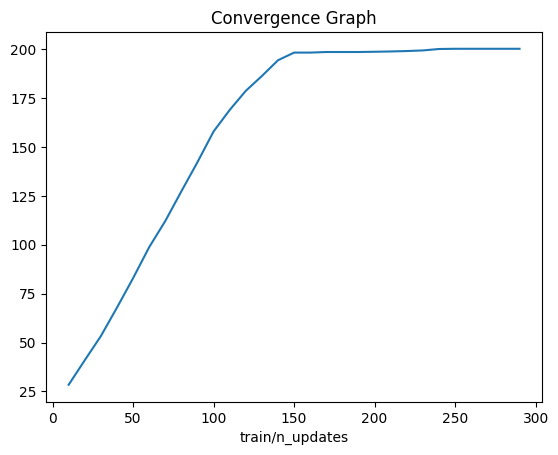
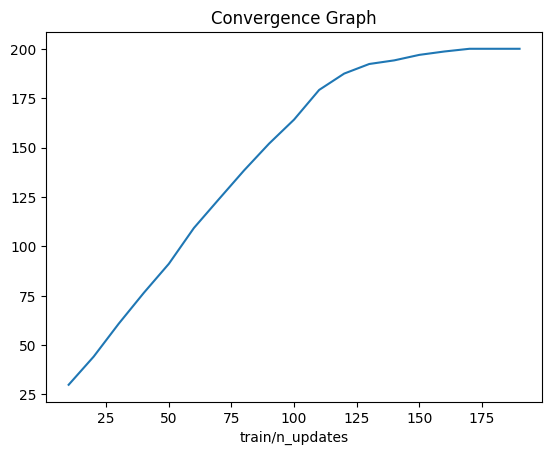
update cartpole esn ppo

diff --git a/RL_Examples/cartpole/cartpole_ESN_PPO_website.html b/RL_Examples/cartpole/cartpole_ESN_PPO_website.html
@@ -13184,8 +13184,6 @@ $( document ).ready(function(){
 
 <span class="n">LOG_PATH</span> <span class="o">=</span> <span class="s2">&quot;./logs/reservoir_&quot;</span> <span class="o">+</span> <span class="n">datetime</span><span class="o">.</span><span class="n">now</span><span class="p">()</span><span class="o">.</span><span class="n">strftime</span><span class="p">(</span><span class="s2">&quot;</span><span class="si">%d</span><span class="s2">_%m_%Y&quot;</span><span class="p">)</span>
 <span class="n">logger</span> <span class="o">=</span> <span class="n">configure</span><span class="p">(</span><span class="n">LOG_PATH</span><span class="p">)</span>
-<span class="n">env</span> <span class="o">=</span> <span class="n">gym</span><span class="o">.</span><span class="n">make</span><span class="p">(</span><span class="s2">&quot;CartPole-v0&quot;</span><span class="p">)</span>
-<span class="n">env</span><span class="o">.</span><span class="n">seed</span><span class="p">(</span><span class="mi">42</span><span class="p">)</span>
 <span class="n">torch</span><span class="o">.</span><span class="n">manual_seed</span><span class="p">(</span><span class="mi">42</span><span class="p">)</span>
 <span class="n">np</span><span class="o">.</span><span class="n">random</span><span class="o">.</span><span class="n">seed</span><span class="p">(</span><span class="mi">42</span><span class="p">)</span>
 </pre></div>
@@ -13204,7 +13202,7 @@ $( document ).ready(function(){
 
 
 <div class="output_subarea output_stream output_stdout output_text">
-<pre>Logging to ./logs/reservoir_08_12_2021
+<pre>Logging to ./logs/reservoir_10_12_2021
 </pre>
 </div>
 </div>
@@ -13225,7 +13223,7 @@ $( document ).ready(function(){
 <div class="prompt input_prompt">In&nbsp;[3]:</div>
 <div class="inner_cell">
     <div class="input_area">
-<div class=" highlight hl-ipython3"><pre><span></span><span class="n">resSize</span><span class="o">=</span><span class="mi">256</span>
+<div class=" highlight hl-ipython3"><pre><span></span><span class="n">resSize</span><span class="o">=</span><span class="mi">280</span>
 <span class="n">leak_rate</span> <span class="o">=</span> <span class="mi">1</span>
 <span class="n">leak_version</span> <span class="o">=</span> <span class="mi">0</span>
 <span class="n">batch_size</span> <span class="o">=</span> <span class="mi">64</span>
@@ -13258,11 +13256,10 @@ $( document ).ready(function(){
         <span class="nb">super</span><span class="p">(</span><span class="n">CustomESNN</span><span class="p">,</span><span class="bp">self</span><span class="p">)</span><span class="o">.</span><span class="fm">__init__</span><span class="p">(</span><span class="n">batch_size</span><span class="o">=</span><span class="n">batch_size</span><span class="p">,</span><span class="n">in_size</span><span class="o">=</span><span class="n">in_size</span><span class="p">,</span><span class="n">out_size</span><span class="o">=</span><span class="n">out_size</span><span class="p">,</span><span class="n">bias</span><span class="o">=</span><span class="n">bias</span><span class="p">,</span><span class="n">W</span><span class="o">=</span><span class="n">W</span><span class="p">,</span><span class="n">resSize</span><span class="o">=</span><span class="n">resSize</span><span class="p">,</span><span class="n">xn</span><span class="o">=</span><span class="n">xn</span><span class="p">,</span><span class="n">pn</span><span class="o">=</span><span class="n">pn</span><span class="p">,</span><span class="n">random_state</span><span class="o">=</span><span class="n">random_state</span><span class="p">,</span><span class="n">null_state_init</span><span class="o">=</span><span class="n">null_state_init</span><span class="p">,</span><span class="n">custom_initState</span><span class="o">=</span><span class="n">custom_initState</span><span class="p">,</span><span class="o">**</span><span class="n">kwargs</span><span class="p">)</span>
         
     <span class="k">def</span> <span class="fm">__call__</span><span class="p">(</span><span class="bp">self</span><span class="p">,</span><span class="n">x</span><span class="p">):</span>
-        <span class="k">if</span> <span class="bp">self</span><span class="o">.</span><span class="n">reservoir_layer</span><span class="o">.</span><span class="n">shape</span><span class="p">[</span><span class="o">-</span><span class="mi">1</span><span class="p">]</span><span class="o">==</span><span class="bp">self</span><span class="o">.</span><span class="n">batch_size</span><span class="p">:</span>
+        <span class="k">if</span> <span class="bp">self</span><span class="o">.</span><span class="n">_layer_mode</span> <span class="o">==</span> <span class="s1">&#39;batch&#39;</span><span class="p">:</span>
             <span class="k">with</span> <span class="n">torch</span><span class="o">.</span><span class="n">no_grad</span><span class="p">():</span>
-<span class="c1">#                 self.update_reservoir_layer(x.T)</span>
-                <span class="bp">self</span><span class="o">.</span><span class="n">update_reservoir_layers_serially</span><span class="p">(</span><span class="n">x</span><span class="p">)</span>
-            <span class="n">x</span> <span class="o">=</span> <span class="nb">super</span><span class="p">()</span><span class="o">.</span><span class="fm">__call__</span><span class="p">(</span><span class="n">x</span><span class="o">.</span><span class="n">T</span><span class="p">)</span><span class="o">.</span><span class="n">T</span>
+                <span class="bp">self</span><span class="o">.</span><span class="n">update_reservoir_layers_serially</span><span class="p">(</span><span class="n">x</span><span class="o">.</span><span class="n">T</span><span class="p">)</span>
+            <span class="n">x</span> <span class="o">=</span> <span class="nb">super</span><span class="p">()</span><span class="o">.</span><span class="fm">__call__</span><span class="p">(</span><span class="n">x</span><span class="o">.</span><span class="n">T</span><span class="p">)</span>
         <span class="k">else</span><span class="p">:</span>
             <span class="n">x</span> <span class="o">=</span> <span class="bp">self</span><span class="o">.</span><span class="n">forward</span><span class="p">(</span><span class="n">x</span><span class="p">)</span>
         <span class="k">return</span> <span class="n">x</span>
@@ -13270,7 +13267,7 @@ $( document ).ready(function(){
     <span class="k">def</span> <span class="nf">forward</span><span class="p">(</span><span class="bp">self</span><span class="p">,</span><span class="n">x</span><span class="p">):</span>
         <span class="k">with</span> <span class="n">torch</span><span class="o">.</span><span class="n">no_grad</span><span class="p">():</span>
             <span class="bp">self</span><span class="o">.</span><span class="n">update_reservoir_layer</span><span class="p">(</span><span class="n">x</span><span class="o">.</span><span class="n">T</span><span class="p">)</span>
-        <span class="k">return</span> <span class="nb">super</span><span class="p">()</span><span class="o">.</span><span class="fm">__call__</span><span class="p">(</span><span class="n">x</span><span class="o">.</span><span class="n">T</span><span class="p">)</span><span class="o">.</span><span class="n">T</span>
+        <span class="k">return</span> <span class="nb">super</span><span class="p">()</span><span class="o">.</span><span class="fm">__call__</span><span class="p">(</span><span class="n">x</span><span class="o">.</span><span class="n">T</span><span class="p">)</span>
 
 <span class="k">class</span> <span class="nc">CustomReservoirNetwork</span><span class="p">(</span><span class="n">torch</span><span class="o">.</span><span class="n">nn</span><span class="o">.</span><span class="n">Module</span><span class="p">):</span>
 
@@ -13295,7 +13292,7 @@ $( document ).ready(function(){
         <span class="bp">self</span><span class="o">.</span><span class="n">res1</span> <span class="o">=</span> <span class="n">CustomESNN</span><span class="p">(</span><span class="n">bias</span><span class="o">=</span><span class="mi">1</span><span class="p">,</span><span class="n">batch_size</span><span class="o">=</span><span class="n">batch_size</span><span class="p">,</span>
                         <span class="n">in_size</span><span class="o">=</span><span class="n">feature_dim</span><span class="p">,</span><span class="n">out_size</span><span class="o">=</span><span class="n">last_layer_dim_pi</span><span class="p">,</span><span class="n">resSize</span><span class="o">=</span><span class="n">resSize</span><span class="p">,</span>
                                     <span class="n">f</span><span class="o">=</span><span class="s1">&#39;tanh&#39;</span><span class="p">,</span><span class="n">leak_rate</span><span class="o">=</span><span class="n">leak_rate</span><span class="p">,</span><span class="n">leak_version</span><span class="o">=</span><span class="n">leak_version</span>
-                                           <span class="p">,</span><span class="n">custom_initState</span><span class="o">=</span><span class="n">np</span><span class="o">.</span><span class="n">random</span><span class="o">.</span><span class="n">rand</span><span class="p">(</span><span class="n">resSize</span><span class="p">,</span><span class="mi">1</span><span class="p">)</span><span class="o">-</span><span class="mf">0.5</span>
+<span class="c1">#                                            ,custom_initState=np.random.rand(resSize,1)-0.5</span>
                                                <span class="p">,</span><span class="n">W</span><span class="o">=</span><span class="n">np</span><span class="o">.</span><span class="n">random</span><span class="o">.</span><span class="n">rand</span><span class="p">(</span><span class="n">resSize</span><span class="p">,</span><span class="n">resSize</span><span class="p">)</span><span class="o">-</span><span class="mf">0.5</span>
                                                 <span class="p">,</span><span class="n">random_state</span><span class="o">=</span><span class="mi">42</span>
                               <span class="p">)</span>
@@ -13309,7 +13306,7 @@ $( document ).ready(function(){
         <span class="bp">self</span><span class="o">.</span><span class="n">res2</span> <span class="o">=</span> <span class="n">CustomESNN</span><span class="p">(</span><span class="n">bias</span><span class="o">=</span><span class="mi">1</span><span class="p">,</span><span class="n">batch_size</span><span class="o">=</span><span class="n">batch_size</span><span class="p">,</span>
                         <span class="n">in_size</span><span class="o">=</span><span class="n">feature_dim</span><span class="p">,</span><span class="n">out_size</span><span class="o">=</span><span class="n">last_layer_dim_pi</span><span class="p">,</span><span class="n">resSize</span><span class="o">=</span><span class="n">resSize</span><span class="p">,</span>
                                     <span class="n">f</span><span class="o">=</span><span class="s1">&#39;tanh&#39;</span><span class="p">,</span><span class="n">leak_rate</span><span class="o">=</span><span class="n">leak_rate</span><span class="p">,</span><span class="n">leak_version</span><span class="o">=</span><span class="n">leak_version</span>
-                                           <span class="p">,</span><span class="n">custom_initState</span><span class="o">=</span><span class="n">np</span><span class="o">.</span><span class="n">random</span><span class="o">.</span><span class="n">rand</span><span class="p">(</span><span class="n">resSize</span><span class="p">,</span><span class="mi">1</span><span class="p">)</span><span class="o">-</span><span class="mf">0.5</span>
+<span class="c1">#                                            ,custom_initState=np.random.rand(resSize,1)-0.5</span>
                                                <span class="p">,</span><span class="n">W</span><span class="o">=</span><span class="n">np</span><span class="o">.</span><span class="n">random</span><span class="o">.</span><span class="n">rand</span><span class="p">(</span><span class="n">resSize</span><span class="p">,</span><span class="n">resSize</span><span class="p">)</span><span class="o">-</span><span class="mf">0.5</span>
                                                 <span class="p">,</span><span class="n">random_state</span><span class="o">=</span><span class="mi">42</span>
                               <span class="p">)</span>
@@ -13375,7 +13372,7 @@ $( document ).ready(function(){
     <span class="k">def</span> <span class="nf">_build_mlp_extractor</span><span class="p">(</span><span class="bp">self</span><span class="p">)</span> <span class="o">-&gt;</span> <span class="kc">None</span><span class="p">:</span>
         <span class="bp">self</span><span class="o">.</span><span class="n">mlp_extractor</span> <span class="o">=</span> <span class="n">CustomReservoirNetwork</span><span class="p">(</span><span class="bp">self</span><span class="o">.</span><span class="n">features_dim</span><span class="p">,</span><span class="n">resSize</span><span class="p">,</span><span class="n">batch_size</span><span class="p">)</span>
     
-    <span class="k">def</span> <span class="nf">reset_reservoirs</span><span class="p">(</span><span class="bp">self</span><span class="p">):</span>
+    <span class="k">def</span> <span class="nf">reset_reservoirs</span><span class="p">(</span><span class="bp">self</span><span class="p">,</span><span class="n">dones</span><span class="o">=</span><span class="kc">None</span><span class="p">):</span>
         <span class="k">with</span> <span class="n">torch</span><span class="o">.</span><span class="n">no_grad</span><span class="p">():</span>
             <span class="k">for</span> <span class="n">res</span> <span class="ow">in</span> <span class="bp">self</span><span class="o">.</span><span class="n">mlp_extractor</span><span class="o">.</span><span class="n">reservoirs</span><span class="p">:</span>
                 <span class="n">res</span><span class="o">.</span><span class="n">reset_reservoir_layer</span><span class="p">()</span>
@@ -13389,7 +13386,6 @@ $( document ).ready(function(){
         <span class="k">with</span> <span class="n">torch</span><span class="o">.</span><span class="n">no_grad</span><span class="p">():</span>
             <span class="k">for</span> <span class="n">res</span> <span class="ow">in</span> <span class="bp">self</span><span class="o">.</span><span class="n">mlp_extractor</span><span class="o">.</span><span class="n">reservoirs</span><span class="p">:</span>
                 <span class="n">res</span><span class="o">.</span><span class="n">_expand_reservoir_layer</span><span class="p">()</span>
-            
 </pre></div>
 
     </div>
@@ -13413,8 +13409,9 @@ $( document ).ready(function(){
 <div class=" highlight hl-ipython3"><pre><span></span><span class="c1"># Parallel environments</span>
 <span class="c1"># env = make_vec_env(&quot;CartPole-v0&quot;, n_envs=1)</span>
 <span class="n">env</span> <span class="o">=</span> <span class="n">gym</span><span class="o">.</span><span class="n">make</span><span class="p">(</span><span class="s2">&quot;CartPole-v0&quot;</span><span class="p">)</span>
+<span class="n">env</span><span class="o">.</span><span class="n">seed</span><span class="p">(</span><span class="mi">42</span><span class="p">)</span>
 
-<span class="n">model</span> <span class="o">=</span> <span class="n">CustomPPO</span><span class="p">(</span><span class="n">CustomActorCriticReservoirPolicy</span><span class="p">,</span> <span class="n">env</span><span class="p">,</span> <span class="n">verbose</span><span class="o">=</span><span class="mi">0</span><span class="p">,</span> <span class="n">batch_size</span><span class="o">=</span><span class="n">PPO_batch_size</span><span class="p">)</span>
+<span class="n">model</span> <span class="o">=</span> <span class="n">CustomPPO</span><span class="p">(</span><span class="n">CustomActorCriticReservoirPolicy</span><span class="p">,</span> <span class="n">env</span><span class="p">,</span> <span class="n">verbose</span><span class="o">=</span><span class="mi">1</span><span class="p">,</span> <span class="n">batch_size</span><span class="o">=</span><span class="n">PPO_batch_size</span><span class="p">)</span>
 <span class="n">model</span><span class="o">.</span><span class="n">set_logger</span><span class="p">(</span><span class="n">logger</span><span class="p">)</span>
 <span class="nb">print</span><span class="p">(</span><span class="n">summary</span><span class="p">(</span><span class="n">model</span><span class="o">.</span><span class="n">policy</span><span class="p">,</span><span class="n">input_data</span><span class="o">=</span><span class="n">torch</span><span class="o">.</span><span class="n">rand</span><span class="p">(</span><span class="n">PPO_batch_size</span><span class="p">,</span><span class="n">env</span><span class="o">.</span><span class="n">observation_space</span><span class="o">.</span><span class="n">shape</span><span class="p">[</span><span class="mi">0</span><span class="p">])))</span>
 </pre></div>
@@ -13433,12 +13430,15 @@ $( document ).ready(function(){
 
 
 <div class="output_subarea output_stream output_stdout output_text">
-<pre>Reservoir generated. Spectral Radius: 4.757210647597017
+<pre>Using cpu device
+Wrapping the env with a `Monitor` wrapper
+Wrapping the env in a DummyVecEnv.
+Reservoir generated. Spectral Radius: 5.070153616107132
 Scaling matrix to have spectral radius 0.9...
-Done: 0.9000000000000002
-Reservoir generated. Spectral Radius: 4.757210647597017
+Done: 0.9000000000000004
+Reservoir generated. Spectral Radius: 5.070153616107132
 Scaling matrix to have spectral radius 0.9...
-Done: 0.9000000000000002
+Done: 0.9000000000000004
 Win (input weights) generated.
 Win (input weights) generated.
 ==========================================================================================
@@ -13453,7 +13453,7 @@ CustomActorCriticReservoirPolicy         --                        --
 │    └─Sequential: 2                     --                        --
 │    │    └─BatchNorm1d: 3-1             [64, 4]                   (recursive)
 │    └─CustomESNN: 2                     --                        --
-│    │    └─Linear: 3-2                  [64, 32]                  8,352
+│    │    └─Linear: 3-2                  [64, 32]                  9,120
 │    └─Sequential: 2                     --                        --
 │    │    └─Tanh: 3-3                    [64, 32]                  --
 │    └─Linear: 2-4                       [64, 32]                  1,056
@@ -13465,7 +13465,7 @@ CustomActorCriticReservoirPolicy         --                        --
 │    └─Sequential: 2                     --                        --
 │    │    └─BatchNorm1d: 3-6             [64, 4]                   (recursive)
 │    └─CustomESNN: 2                     --                        --
-│    │    └─Linear: 3-7                  [64, 32]                  8,352
+│    │    └─Linear: 3-7                  [64, 32]                  9,120
 │    └─Sequential: 2                     --                        --
 │    │    └─Tanh: 3-8                    [64, 32]                  --
 │    └─Linear: 2-7                       [64, 32]                  1,056
@@ -13475,10 +13475,10 @@ CustomActorCriticReservoirPolicy         --                        --
 ├─Linear: 1-3                            [64, 1]                   33
 ├─Linear: 1-4                            [64, 2]                   66
 ==========================================================================================
-Total params: 18,931
-Trainable params: 18,931
+Total params: 20,467
+Trainable params: 20,467
 Non-trainable params: 0
-Total mult-adds (M): 2.42
+Total mult-adds (M): 2.61
 ==========================================================================================
 Input size (MB): 0.00
 Forward/backward pass size (MB): 0.07
@@ -13499,7 +13499,7 @@ Estimated Total Size (MB): 0.15
 <div class="inner_cell">
     <div class="input_area">
 <div class=" highlight hl-ipython3"><pre><span></span><span class="k">with</span> <span class="n">timer</span><span class="p">(</span><span class="s1">&#39;Traning duration:&#39;</span><span class="p">):</span>
-    <span class="n">model</span><span class="o">.</span><span class="n">learn</span><span class="p">(</span><span class="n">total_timesteps</span><span class="o">=</span><span class="mi">60000</span><span class="p">)</span>
+    <span class="n">model</span><span class="o">.</span><span class="n">learn</span><span class="p">(</span><span class="n">total_timesteps</span><span class="o">=</span><span class="mi">40000</span><span class="p">)</span>
 </pre></div>
 
     </div>
@@ -13512,8 +13512,8 @@ Estimated Total Size (MB): 0.15
 <div class="prompt input_prompt">In&nbsp;[7]:</div>
 <div class="inner_cell">
     <div class="input_area">
-<div class=" highlight hl-ipython3"><pre><span></span><span class="n">log</span> <span class="o">=</span> <span class="n">pd</span><span class="o">.</span><span class="n">read_csv</span><span class="p">(</span><span class="s1">&#39;./logs/reservoir_08_12_2021/progress.csv&#39;</span><span class="p">)</span>
-<span class="n">log</span><span class="o">.</span><span class="n">set_index</span><span class="p">(</span><span class="s1">&#39;train/n_updates&#39;</span><span class="p">)[</span><span class="s1">&#39;rollout/ep_rew_mean&#39;</span><span class="p">]</span><span class="o">.</span><span class="n">plot</span><span class="p">()</span>
+<div class=" highlight hl-ipython3"><pre><span></span><span class="n">log_res</span> <span class="o">=</span> <span class="n">pd</span><span class="o">.</span><span class="n">read_csv</span><span class="p">(</span><span class="s1">&#39;./logs/reservoir_10_12_2021/progress.csv&#39;</span><span class="p">)</span>
+<span class="n">log_res</span><span class="o">.</span><span class="n">set_index</span><span class="p">(</span><span class="s1">&#39;train/n_updates&#39;</span><span class="p">)[</span><span class="s1">&#39;rollout/ep_rew_mean&#39;</span><span class="p">]</span><span class="o">.</span><span class="n">plot</span><span class="p">()</span>
 <span class="n">plt</span><span class="o">.</span><span class="n">title</span><span class="p">(</span><span class="s1">&#39;Convergence Graph&#39;</span><span class="p">)</span>
 <span class="n">plt</span><span class="o">.</span><span class="n">show</span><span class="p">()</span>
 </pre></div>
@@ -13553,7 +13553,7 @@ Estimated Total Size (MB): 0.15
 </div>
 <div class="cell border-box-sizing code_cell rendered">
 <div class="input">
-<div class="prompt input_prompt">In&nbsp;[14]:</div>
+<div class="prompt input_prompt">In&nbsp;[8]:</div>
 <div class="inner_cell">
     <div class="input_area">
 <div class=" highlight hl-ipython3"><pre><span></span><span class="n">ep_lengths</span> <span class="o">=</span> <span class="p">[]</span>
@@ -13587,14 +13587,14 @@ Estimated Total Size (MB): 0.15
 
 
 <div class="output_subarea output_stream output_stderr output_text">
-<pre>100%|██████████| 100/100 [00:13&lt;00:00,  7.46it/s]
+<pre>100%|██████████| 100/100 [00:12&lt;00:00,  7.74it/s]
 </pre>
 </div>
 </div>
 
 <div class="output_area">
 
-    <div class="prompt output_prompt">Out[14]:</div>
+    <div class="prompt output_prompt">Out[8]:</div>
 
 
 
@@ -13619,7 +13619,7 @@ Estimated Total Size (MB): 0.15
 </div>
 <div class="cell border-box-sizing code_cell rendered">
 <div class="input">
-<div class="prompt input_prompt">In&nbsp;[15]:</div>
+<div class="prompt input_prompt">In&nbsp;[9]:</div>
 <div class="inner_cell">
     <div class="input_area">
 <div class=" highlight hl-ipython3"><pre><span></span><span class="n">plt</span><span class="o">.</span><span class="n">hist</span><span class="p">(</span><span class="n">ep_lengths</span><span class="p">)</span>
@@ -13655,14 +13655,14 @@ Estimated Total Size (MB): 0.15
 <div class="cell border-box-sizing text_cell rendered"><div class="prompt input_prompt">
 </div><div class="inner_cell">
 <div class="text_cell_render border-box-sizing rendered_html">
-<h1 id="Feedforward-Network">Feedforward Network<a class="anchor-link" href="#Feedforward-Network">&#182;</a></h1><p>We also compare our results with the feedforward case, where we give the network double the amount of parameters than the reservoir case.</p>
+<h1 id="Feedforward-Network">Feedforward Network<a class="anchor-link" href="#Feedforward-Network">&#182;</a></h1><p>We also compare our results with the feedforward case, where we give the network almost double the amount of parameters than the reservoir case.</p>
 
 </div>
 </div>
 </div>
 <div class="cell border-box-sizing code_cell rendered">
 <div class="input">
-<div class="prompt input_prompt">In&nbsp;[16]:</div>
+<div class="prompt input_prompt">In&nbsp;[10]:</div>
 <div class="inner_cell">
     <div class="input_area">
 <div class=" highlight hl-ipython3"><pre><span></span><span class="n">LOG_PATH</span> <span class="o">=</span> <span class="s2">&quot;./logs/feedforward_&quot;</span> <span class="o">+</span> <span class="n">datetime</span><span class="o">.</span><span class="n">now</span><span class="p">()</span><span class="o">.</span><span class="n">strftime</span><span class="p">(</span><span class="s2">&quot;</span><span class="si">%d</span><span class="s2">_%m_%Y&quot;</span><span class="p">)</span>
@@ -13683,7 +13683,7 @@ Estimated Total Size (MB): 0.15
 
 
 <div class="output_subarea output_stream output_stdout output_text">
-<pre>Logging to ./logs/feedforward_08_12_2021
+<pre>Logging to ./logs/feedforward_10_12_2021
 </pre>
 </div>
 </div>
@@ -13701,7 +13701,7 @@ Estimated Total Size (MB): 0.15
 </div>
 <div class="cell border-box-sizing code_cell rendered">
 <div class="input">
-<div class="prompt input_prompt">In&nbsp;[18]:</div>
+<div class="prompt input_prompt">In&nbsp;[11]:</div>
 <div class="inner_cell">
     <div class="input_area">
 <div class=" highlight hl-ipython3"><pre><span></span><span class="c1"># Parallel environments</span>
@@ -13772,7 +13772,7 @@ Estimated Total Size (MB): 0.40
 <div class="inner_cell">
     <div class="input_area">
 <div class=" highlight hl-ipython3"><pre><span></span><span class="k">with</span> <span class="n">timer</span><span class="p">(</span><span class="s1">&#39;Traning duration:&#39;</span><span class="p">):</span>
-    <span class="n">model</span><span class="o">.</span><span class="n">learn</span><span class="p">(</span><span class="n">total_timesteps</span><span class="o">=</span><span class="mi">60000</span><span class="p">)</span>
+    <span class="n">model</span><span class="o">.</span><span class="n">learn</span><span class="p">(</span><span class="n">total_timesteps</span><span class="o">=</span><span class="mi">40000</span><span class="p">)</span>
 </pre></div>
 
     </div>
@@ -13782,12 +13782,14 @@ Estimated Total Size (MB): 0.40
 </div>
 <div class="cell border-box-sizing code_cell rendered">
 <div class="input">
-<div class="prompt input_prompt">In&nbsp;[20]:</div>
+<div class="prompt input_prompt">In&nbsp;[13]:</div>
 <div class="inner_cell">
     <div class="input_area">
-<div class=" highlight hl-ipython3"><pre><span></span><span class="n">log</span> <span class="o">=</span> <span class="n">pd</span><span class="o">.</span><span class="n">read_csv</span><span class="p">(</span><span class="s1">&#39;./logs/feedforward_08_12_2021/progress.csv&#39;</span><span class="p">)</span>
-<span class="n">log</span><span class="o">.</span><span class="n">set_index</span><span class="p">(</span><span class="s1">&#39;train/n_updates&#39;</span><span class="p">)[</span><span class="s1">&#39;rollout/ep_rew_mean&#39;</span><span class="p">]</span><span class="o">.</span><span class="n">plot</span><span class="p">()</span>
+<div class=" highlight hl-ipython3"><pre><span></span><span class="n">log_res</span><span class="o">.</span><span class="n">set_index</span><span class="p">(</span><span class="s1">&#39;train/n_updates&#39;</span><span class="p">)[</span><span class="s1">&#39;rollout/ep_rew_mean&#39;</span><span class="p">]</span><span class="o">.</span><span class="n">plot</span><span class="p">(</span><span class="n">label</span><span class="o">=</span><span class="s1">&#39;reservoir&#39;</span><span class="p">)</span>
+<span class="n">log_ff</span> <span class="o">=</span> <span class="n">pd</span><span class="o">.</span><span class="n">read_csv</span><span class="p">(</span><span class="s1">&#39;./logs/feedforward_10_12_2021/progress.csv&#39;</span><span class="p">)</span>
+<span class="n">log_ff</span><span class="o">.</span><span class="n">set_index</span><span class="p">(</span><span class="s1">&#39;train/n_updates&#39;</span><span class="p">)[</span><span class="s1">&#39;rollout/ep_rew_mean&#39;</span><span class="p">]</span><span class="o">.</span><span class="n">plot</span><span class="p">(</span><span class="n">label</span><span class="o">=</span><span class="s1">&#39;feedforward&#39;</span><span class="p">)</span>
 <span class="n">plt</span><span class="o">.</span><span class="n">title</span><span class="p">(</span><span class="s1">&#39;Convergence Graph&#39;</span><span class="p">)</span>
+<span class="n">plt</span><span class="o">.</span><span class="n">legend</span><span class="p">()</span>
 <span class="n">plt</span><span class="o">.</span><span class="n">show</span><span class="p">()</span>
 </pre></div>
 
@@ -13826,7 +13828,7 @@ Estimated Total Size (MB): 0.40
 </div>
 <div class="cell border-box-sizing code_cell rendered">
 <div class="input">
-<div class="prompt input_prompt">In&nbsp;[21]:</div>
+<div class="prompt input_prompt">In&nbsp;[14]:</div>
 <div class="inner_cell">
     <div class="input_area">
 <div class=" highlight hl-ipython3"><pre><span></span><span class="n">ep_lengths</span> <span class="o">=</span> <span class="p">[]</span>
@@ -13858,20 +13860,20 @@ Estimated Total Size (MB): 0.40
 
 
 <div class="output_subarea output_stream output_stderr output_text">
-<pre>100%|██████████| 100/100 [00:07&lt;00:00, 14.13it/s]
+<pre>100%|██████████| 100/100 [00:07&lt;00:00, 13.98it/s]
 </pre>
 </div>
 </div>
 
 <div class="output_area">
 
-    <div class="prompt output_prompt">Out[21]:</div>
+    <div class="prompt output_prompt">Out[14]:</div>
 
 
 
 
 <div class="output_text output_subarea output_execute_result">
-<pre>191.63</pre>
+<pre>200.0</pre>
 </div>
 
 </div>
@@ -13882,7 +13884,7 @@ Estimated Total Size (MB): 0.40
 </div>
 <div class="cell border-box-sizing code_cell rendered">
 <div class="input">
-<div class="prompt input_prompt">In&nbsp;[22]:</div>
+<div class="prompt input_prompt">In&nbsp;[15]:</div>
 <div class="inner_cell">
     <div class="input_area">
 <div class=" highlight hl-ipython3"><pre><span></span><span class="n">plt</span><span class="o">.</span><span class="n">hist</span><span class="p">(</span><span class="n">ep_lengths</span><span class="p">)</span>
